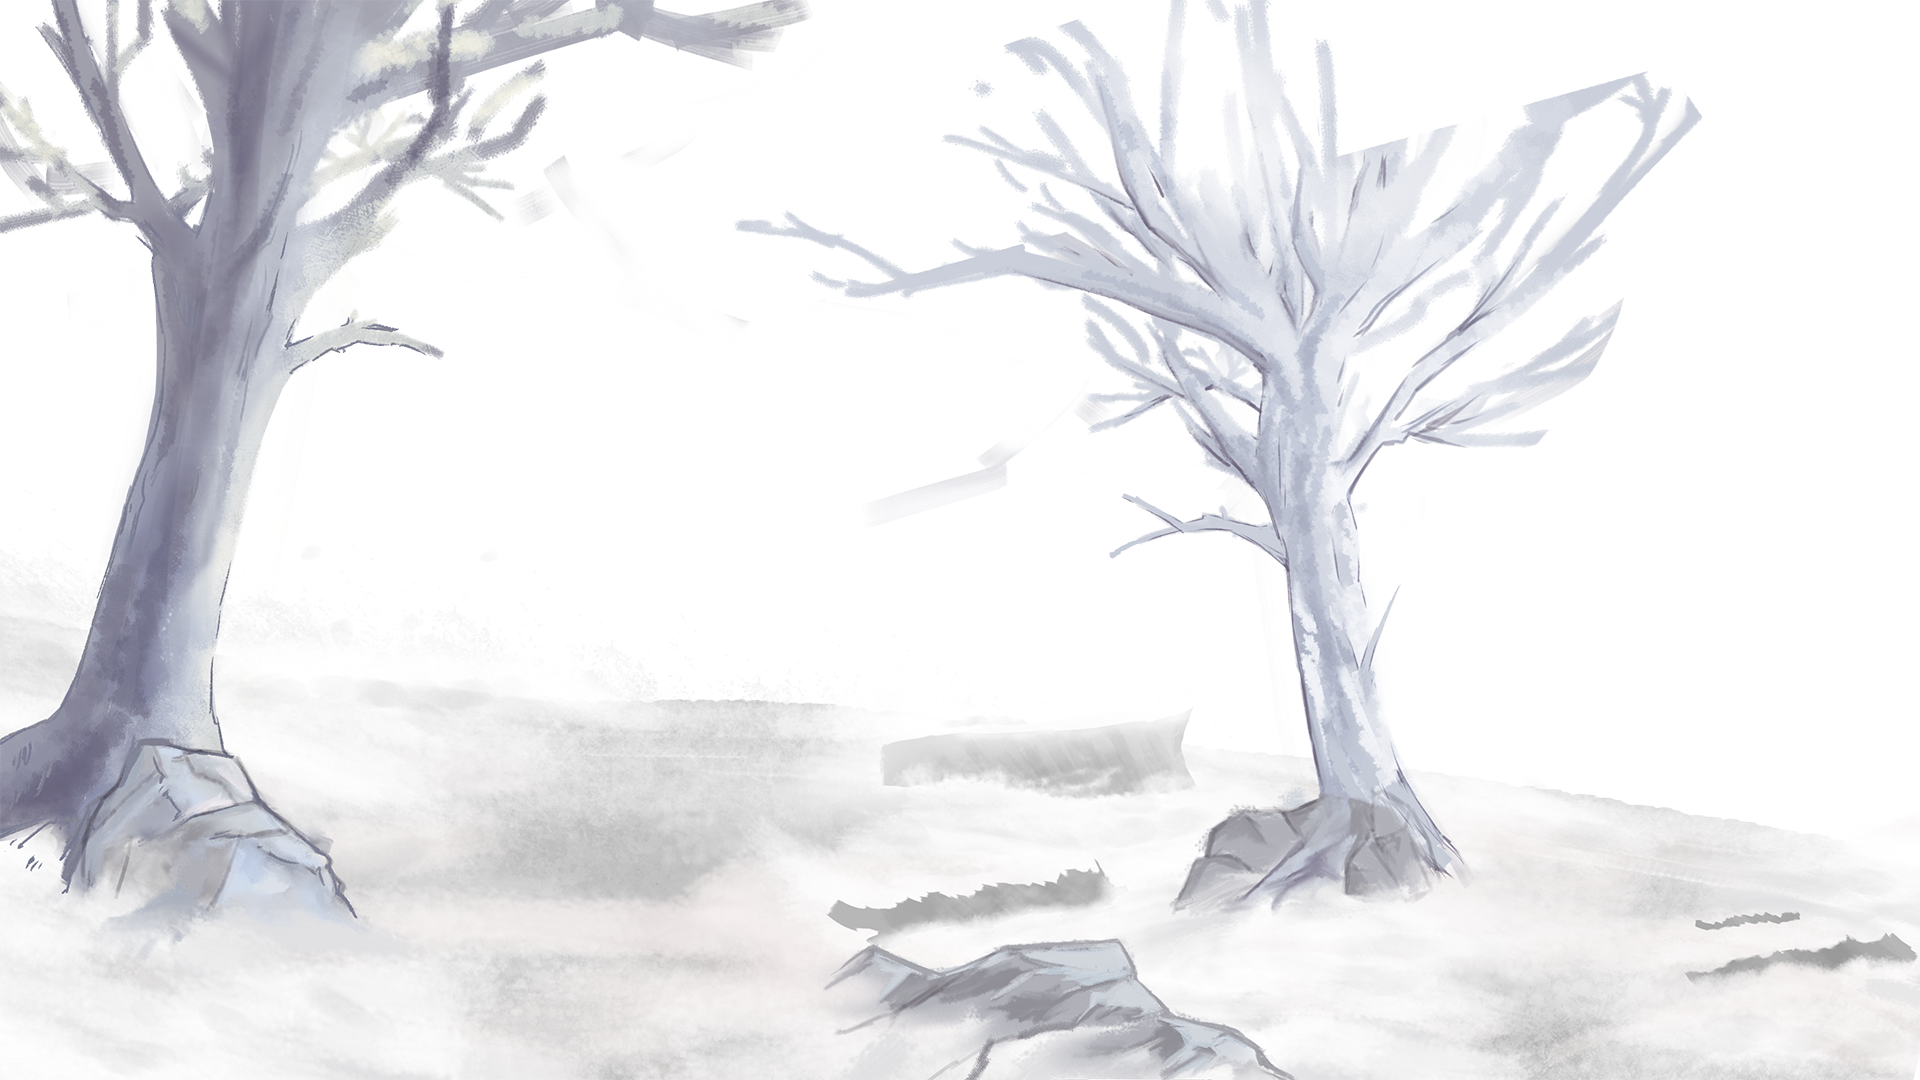
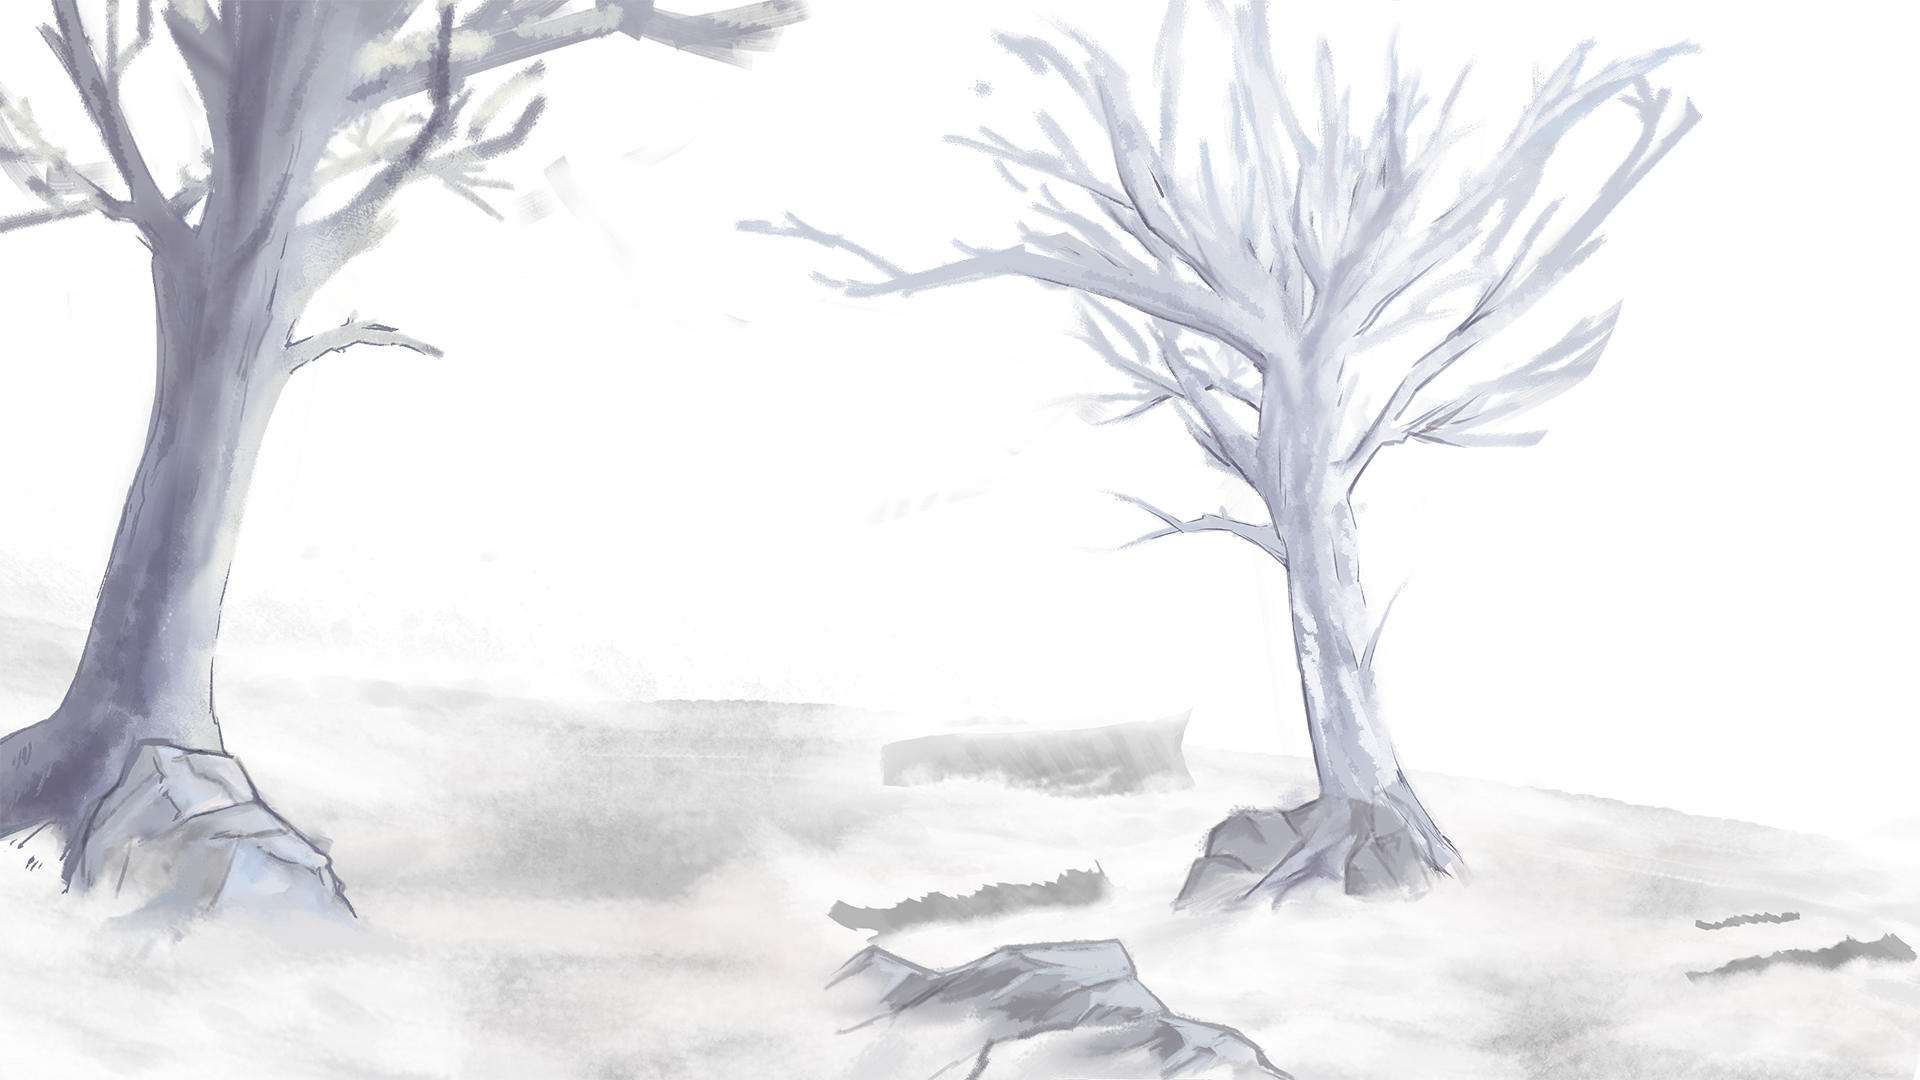
Finish Scene 2 and fix an overlap in scene 1

Changed region(s): [[0.6875, 0.0306, 0.875, 0.275], [0.625, 0.0611, 0.6562, 0.1833], [0.5625, 0.275, 0.5938, 0.3056]]

diff --git a/InstrumentalScene.cs b/InstrumentalScene.cs
@@ -1,5 +1,6 @@
 using OpenTK;
 using OpenTK.Graphics;
+using OpenTK.Graphics.ES11;
 using StorybrewCommon.Mapset;
 using StorybrewCommon.Scripting;
 using StorybrewCommon.Storyboarding;
@@ -39,6 +40,7 @@ namespace StorybrewScripts
 
             Part1();
             Part2();
+            Part3();
             
             #region Overlays
 
@@ -72,7 +74,39 @@ namespace StorybrewScripts
             transition.Fade(P1EndTime, P1EndTime + BeatDuration*4, 0.5, 0);
             transition.ScaleVec(P1EndTime, 854, 480);
         }
-        internal void P1ParticleEffect(int ct, double factor)
+        internal void Part3()
+        {
+            OsbSprite color = Layer.CreateSprite("sb/bg/bg1color.png", OsbOrigin.Centre);
+            color.Fade(P2EndTime, 0.5);
+            color.Fade(EndTime, 0);
+            color.Scale(P2EndTime, 0.45);
+            OsbSprite background = Layer.CreateSprite("sb/bg/bg1mountains.png", OsbOrigin.Centre);
+            background.Fade(P2EndTime, 1);
+            background.Fade(EndTime, 0);
+            background.Scale(P2EndTime, 0.48);
+            background.MoveX(OsbEasing.OutSine, P2EndTime, EndTime, 330, 320);
+
+            OsbSprite haze = Layer.CreateSprite("sb/bg/haze.png", OsbOrigin.Centre);
+            haze.Fade(P2EndTime, 1);
+            haze.Fade(EndTime, 0);
+            haze.Scale(P2EndTime, 0.48);
+            haze.MoveX(OsbEasing.OutSine, P2EndTime, EndTime, 335, 315);
+
+            P1ParticleEffect(80, 0.1, P2EndTime, EndTime);
+            OsbSprite foreground = Layer.CreateSprite("sb/bg/bg1foreground.png", OsbOrigin.Centre);
+            foreground.Fade(P2EndTime, 1);
+            foreground.Fade(EndTime, 0);
+            foreground.Scale(P2EndTime, 0.5);
+            foreground.MoveX(OsbEasing.OutSine, P2EndTime, EndTime, 370, 340);
+
+            P1ParticleEffect(120, 0.15, P2EndTime, EndTime);
+            OsbSprite tree = Layer.CreateSprite("sb/bg/bg1fronttree.png", OsbOrigin.Centre);
+            tree.Fade(P2EndTime, 1);
+            tree.Fade(EndTime, 0);
+            tree.Scale(P2EndTime, 0.56);
+            tree.MoveX(OsbEasing.OutSine, P2EndTime, EndTime, 440, 310);
+        }
+        internal void P1ParticleEffect(int ct, double factor, double start, double end)
         {
             for (int i = 0; i < ct; i++)
             {
@@ -81,13 +115,13 @@ namespace StorybrewScripts
                 double scale = 1000/time * factor;
                 int x = Random(-257, 747);
                 int dx = Random(50, 200);
-                p.Fade(StartTime, StartTime, 0, 1);
-                p.Fade(P1EndTime, P1EndTime, 1, 0);
-                p.Scale(StartTime, scale);
-                p.StartLoopGroup(StartTime - Random(0, time), (int)((P1EndTime - StartTime) / time) + 2);
+                p.Fade(start, start, 0, 1);
+                p.Fade(end, end, 1, 0);
+                p.Scale(start, scale);
+                p.StartLoopGroup(start - Random(0, time), (int)((end - start) / time) + 2);
                     p.Move(0, time, x, 0, x + dx, 480);
                 p.EndGroup();
-                p.Additive(StartTime);
+                p.Additive(start);
             }
         }
         internal void P2ParticleEffect(int ct, double factor)
@@ -164,7 +198,7 @@ namespace StorybrewScripts
             foreground.Scale(StartTime, 0.5);
             foreground.MoveX(OsbEasing.OutSine, StartTime, P1EndTime, 300, 330);
 
-            P1ParticleEffect(240, 0.2);
+            P1ParticleEffect(240, 0.2, StartTime, P1EndTime);
 
             OsbSprite tree = Layer.CreateSprite("sb/bg/bg1fronttree.png", OsbOrigin.Centre);
             tree.Fade(StartTime, 1);
@@ -172,7 +206,7 @@ namespace StorybrewScripts
             tree.Scale(StartTime, 0.5);
             tree.MoveX(OsbEasing.OutSine, StartTime, P1EndTime, 230, 330);
 
-            P1ParticleEffect(50, 0.45);
+            P1ParticleEffect(50, 0.45, StartTime, P1EndTime);
             #endregion
         }
     }

diff --git a/obj/Debug/net8.0-windows/scripts.AssemblyInfo.cs b/obj/Debug/net8.0-windows/scripts.AssemblyInfo.cs
@@ -13,7 +13,7 @@ using System.Reflection;
 [assembly: System.Reflection.AssemblyCompanyAttribute("storyboard")]
 [assembly: System.Reflection.AssemblyConfigurationAttribute("Debug")]
 [assembly: System.Reflection.AssemblyFileVersionAttribute("1.0.0.0")]
-[assembly: System.Reflection.AssemblyInformationalVersionAttribute("1.0.0+a19cd12c641ec83b1c916d4e2210f0f69433ebb4")]
+[assembly: System.Reflection.AssemblyInformationalVersionAttribute("1.0.0+f84bc1634a9620bd81c3478e8711f19d5ad673e0")]
 [assembly: System.Reflection.AssemblyProductAttribute("storyboard")]
 [assembly: System.Reflection.AssemblyTitleAttribute("storyboard")]
 [assembly: System.Reflection.AssemblyVersionAttribute("1.0.0.0")]

diff --git a/Scene1.cs b/Scene1.cs
@@ -159,7 +159,7 @@ namespace StorybrewScripts
             flare2.EndGroup();
             
             flare2.Additive(StartTime);
-            flare2.Scale(StartTime, TransitionTime, 0.45, 0.5);
+            flare2.Scale(StartTime, TransitionTime, 0.47, 0.5);
             flare2.MoveX(StartTime, TransitionTime, 310, 335);
             flare2.MoveY(StartTime, TransitionTime, 220, 240);
             OsbAnimation noise = Layer.CreateAnimation("sb/noise/mono/n.jpg", 8, 

diff --git a/Letterbox.cs b/Letterbox.cs
@@ -9,7 +9,7 @@ using StorybrewCommon.Util;
 using System;
 using System.Collections.Generic;
 using System.Linq;
-using SBImageLib;
+
 namespace StorybrewScripts
 {
     /*
